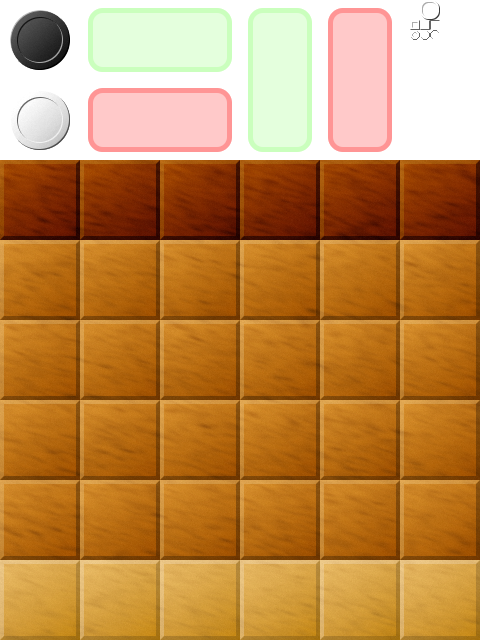
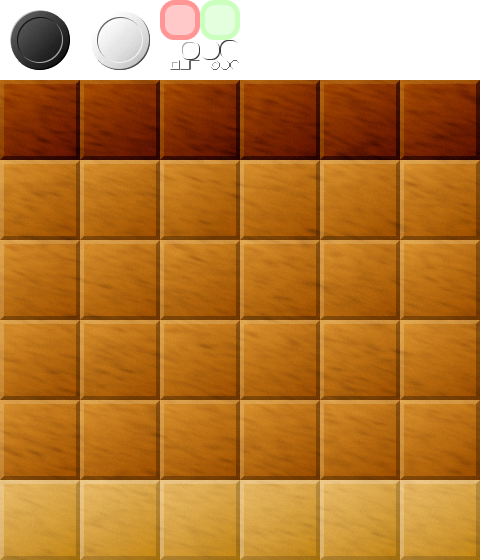
Replaced highlight textures with nine-slice ones

diff --git a/SwapGame/EntryPoint.cpp b/SwapGame/EntryPoint.cpp
@@ -7,11 +7,12 @@
 #include <SDL.h>
 #include <SDL_image.h>
 
-
 #include "SDLError.h"
 #include "SDLi.h"
 #include "IMGi.h"
 #include "TTFi.h"
+
+#include "NineSlice.h"
 
 // "Conversion, possible loss of data"
 #pragma warning(disable: 4244)
@@ -173,6 +174,8 @@ void SDLmain(int argc, char** argv)
 	Rect_Highlight_0V.y = 0;
 	Rect_Highlight_0V.w = 80;
 	Rect_Highlight_0V.h = 160;
+	// Nine-slice textures
+
 	// SDL event-loop variables
 	bool running = true;
 	SDL_Event ev;
@@ -245,7 +248,6 @@ void SDLmain(int argc, char** argv)
 				(displayState & STATE_BIT(i)) ? &Rect_White : &Rect_Black,
 				&dest);
 		}
-
 		// Draw UI elements on the screen
 
 		// Handle game mechanics
@@ -271,18 +273,9 @@ void SDLmain(int argc, char** argv)
 				// Work out what state the swap will result in, and whether it is legal
 				finalState = PerformSwap(displayState, swapPos, vertical);
 				bool legalMove = !seenStates.count(finalState);
+
 				// Draw the highlight in the correct colour, corresponding to the legality of the move
-				dest = vertical ? Rect_Highlight_1V : Rect_Highlight_1H;
-				GetScreenPos(swapPos, dest.x, dest.y);
-				SDL_Rect *highlightV, *highlightH;
-				if (legalMove) {
-					highlightV = &Rect_Highlight_1V;
-					highlightH = &Rect_Highlight_1H;
-				} else {
-					highlightV = &Rect_Highlight_0V;
-					highlightH = &Rect_Highlight_0H;
-				}
-				SDL_RenderCopy(renderer, tex, vertical ? highlightV : highlightH, &dest);
+				
 				if (mouseClicked && legalMove) {
 					// If the user clicked the mouse, begin carrying out the move
 					swapping = true;

diff --git a/SwapGame/NineSlice.cpp b/SwapGame/NineSlice.cpp
@@ -1,7 +1,5 @@
 #include "NineSlice.h"
 
-
-
 NineSlice::NineSlice() : Texture(nullptr) {}
 
 NineSlice::NineSlice(SDL_Texture* tex, int bX, int bY,
